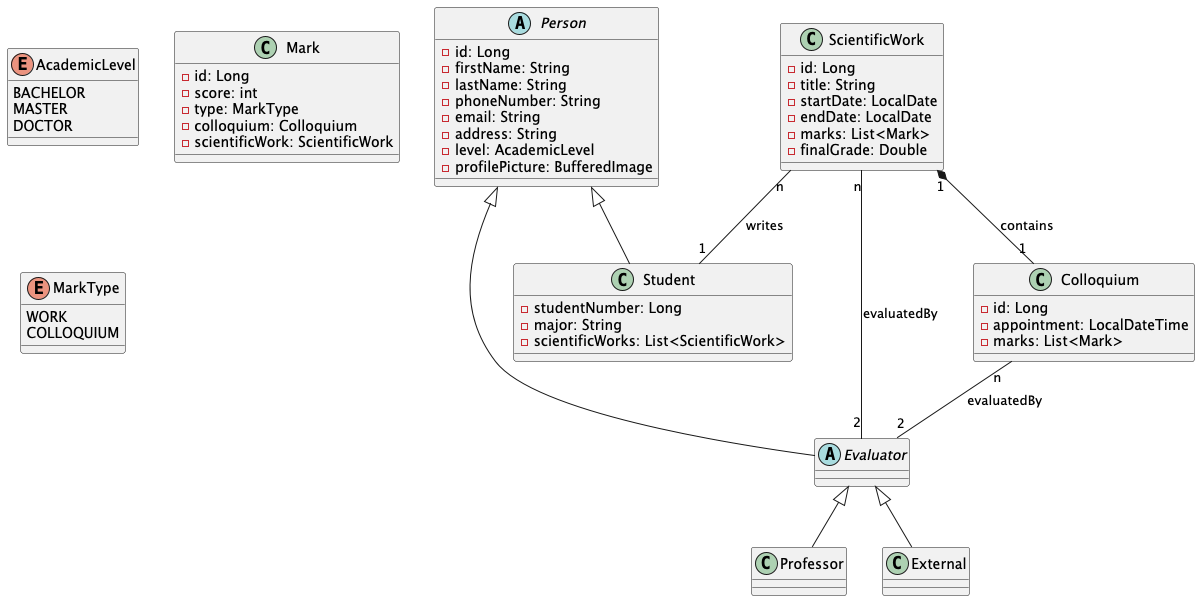
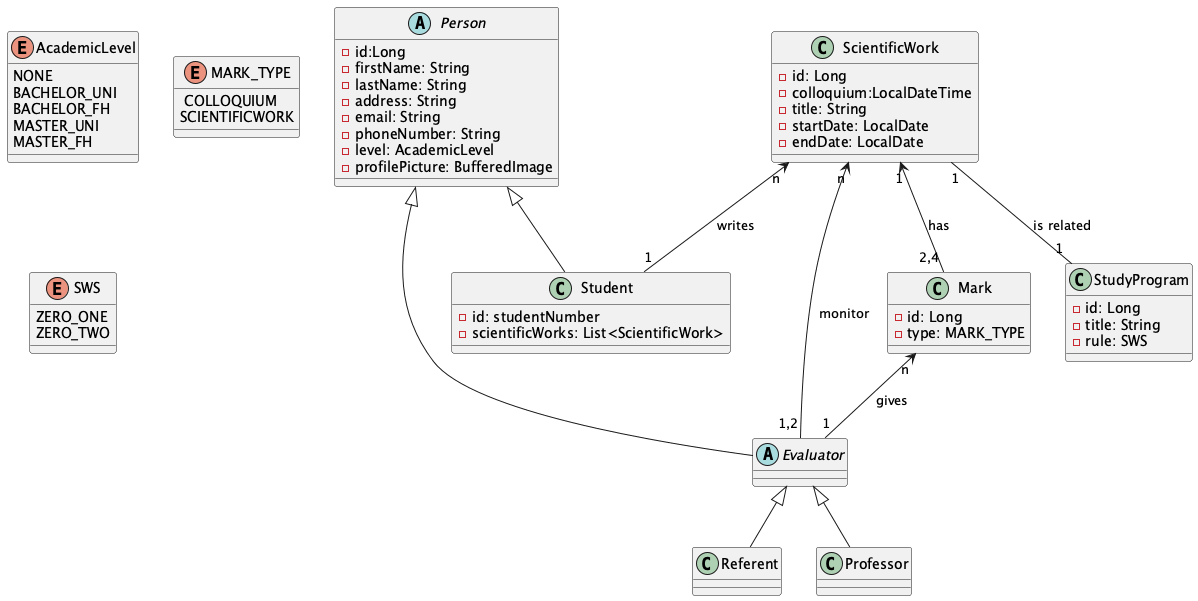
Creation of the entitites  of each model, which are defined in the classDiagram.puml file. The associated  classes are located  in the model package

diff --git a/src/main/java/com/example/profisbackend/model/ScientificWork.java b/src/main/java/com/example/profisbackend/model/ScientificWork.java
@@ -1,0 +1,36 @@
+package com.example.profisbackend.model;
+
+import java.time.LocalDate;
+import java.time.LocalDateTime;
+import java.util.List;
+
+import jakarta.persistence.ManyToOne;
+
+
+import jakarta.persistence.Entity;
+import jakarta.persistence.Id;
+import jakarta.persistence.JoinColumn;
+import jakarta.persistence.ManyToMany;
+import jakarta.persistence.OneToMany;
+import jakarta.persistence.OneToOne;
+import lombok.Data;
+@Data
+@Entity
+public class ScientificWork {
+    @Id
+    private Long id;
+    private LocalDateTime colloquium;
+    private String title;
+    private LocalDate startDate;
+    private LocalDate endDate;
+    @ManyToOne
+    private Student student;
+    @ManyToMany
+    private List<Evaluator> evaluators;
+    @OneToMany(mappedBy ="scientificWork" )
+    private List<Mark> marks;
+    @OneToOne
+    @JoinColumn(name = "study_program_id")
+    private StudyProgram studyProgram;
+    
+}

diff --git a/src/main/java/com/example/profisbackend/model/Evaluator.java b/src/main/java/com/example/profisbackend/model/Evaluator.java
@@ -1,0 +1,26 @@
+package com.example.profisbackend.model;
+
+import java.util.List;
+
+import jakarta.persistence.Entity;
+import jakarta.persistence.Id;
+import jakarta.persistence.Inheritance;
+import jakarta.persistence.InheritanceType;
+import jakarta.persistence.ManyToMany;
+import jakarta.persistence.OneToMany;
+import lombok.Getter;
+import lombok.Setter;
+
+@Getter
+@Setter
+@Inheritance(strategy = InheritanceType.TABLE_PER_CLASS)
+@Entity
+public abstract class Evaluator extends Person{
+    @Id 
+    private Long id;
+    @ManyToMany(mappedBy = "evaluators")
+    private List<ScientificWork> scientificWorks;
+    @OneToMany(mappedBy ="evaluator" )
+    private List<Mark> marks;
+
+}

diff --git a/src/main/java/com/example/profisbackend/model/Person.java b/src/main/java/com/example/profisbackend/model/Person.java
@@ -1,0 +1,23 @@
+package com.example.profisbackend.model;
+import com.example.profisbackend.enums.AcademicLevel;
+import java.io.BufferedInputStream;
+
+import jakarta.persistence.Lob;
+import jakarta.persistence.MappedSuperclass;
+import lombok.Getter;
+import lombok.Setter;
+
+@Getter
+@Setter
+@MappedSuperclass
+public abstract class Person {
+    
+    private String firstName;
+    private String lastName;
+    private String address;
+    private String email;
+    private String phoneNumber;
+    private AcademicLevel academicLevel;
+    @Lob
+    private byte[] profilePicture;
+}

diff --git a/src/main/java/com/example/profisbackend/model/Mark.java b/src/main/java/com/example/profisbackend/model/Mark.java
@@ -1,0 +1,24 @@
+package com.example.profisbackend.model;
+import jakarta.validation.constraints.Min;
+import jakarta.validation.constraints.Max;
+import com.example.profisbackend.enums.MarkType;
+
+import jakarta.persistence.Entity;
+import jakarta.persistence.Id;
+import jakarta.persistence.ManyToOne;
+import lombok.Data;
+@Data
+@Entity
+public class Mark {
+    @Id
+    private Long id;
+    @Min(0)
+    @Max(100)
+    private int score;
+    private MarkType type;
+    @ManyToOne
+    private ScientificWork scientificWork;
+    @ManyToOne
+    private Evaluator evaluator;
+
+}

diff --git a/src/main/java/com/example/profisbackend/model/Student.java b/src/main/java/com/example/profisbackend/model/Student.java
@@ -1,0 +1,16 @@
+package com.example.profisbackend.model;
+import java.util.List;
+
+import jakarta.persistence.Entity;
+import jakarta.persistence.Id;
+import jakarta.persistence.OneToMany;
+import lombok.Data;
+@Data
+
+@Entity
+public class Student extends Person  {
+    @Id
+    private Long studentNumber;
+    @OneToMany(mappedBy ="student" )
+    private List<ScientificWork>scientificWorks;
+}

diff --git a/src/main/java/com/example/profisbackend/model/StudyProgram.java b/src/main/java/com/example/profisbackend/model/StudyProgram.java
@@ -1,0 +1,13 @@
+package com.example.profisbackend.model;
+import com.example.profisbackend.enums.SWS;
+import jakarta.persistence.Entity;
+import jakarta.persistence.Id;
+import lombok.Data;
+@Data
+@Entity
+public class StudyProgram {
+    @Id
+    private Long id;
+    private String title;
+    private SWS rule;   
+}

diff --git a/src/main/java/com/example/profisbackend/model/Professor.java b/src/main/java/com/example/profisbackend/model/Professor.java
@@ -1,0 +1,10 @@
+package com.example.profisbackend.model;
+
+import jakarta.persistence.Entity;
+import lombok.Getter;
+import lombok.Setter;
+
+@Getter
+@Setter
+@Entity
+public class Professor extends Evaluator{}

diff --git a/src/main/java/com/example/profisbackend/model/External.java b/src/main/java/com/example/profisbackend/model/External.java
@@ -1,0 +1,10 @@
+package com.example.profisbackend.model;
+
+import jakarta.persistence.Entity;
+import lombok.Getter;
+import lombok.Setter;
+
+@Getter
+@Setter
+@Entity
+public class External extends Evaluator{}

diff --git a/src/main/java/com/example/profisbackend/enums/AcademicLevel.java b/src/main/java/com/example/profisbackend/enums/AcademicLevel.java
@@ -1,0 +1,10 @@
+package com.example.profisbackend.enums;
+
+public enum AcademicLevel {
+    NONE,
+    BACHELOR_FH,
+    BACHELOR_UNI,
+    MASTER_FH,
+    MASTER_UNI
+    
+}

diff --git a/src/main/java/com/example/profisbackend/enums/MarkType.java b/src/main/java/com/example/profisbackend/enums/MarkType.java
@@ -1,0 +1,5 @@
+package com.example.profisbackend.enums;
+public enum MarkType{
+    SCIENTIFICWORK,
+    COLLOQUIUM
+}

diff --git a/src/main/java/com/example/profisbackend/enums/SWS.java b/src/main/java/com/example/profisbackend/enums/SWS.java
@@ -1,0 +1,7 @@
+package com.example.profisbackend.enums;
+
+public enum SWS {
+    ZERO_ONE,
+    ZERO_TWO
+    
+}
